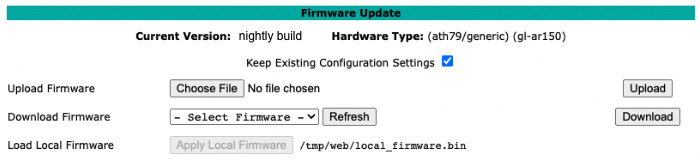
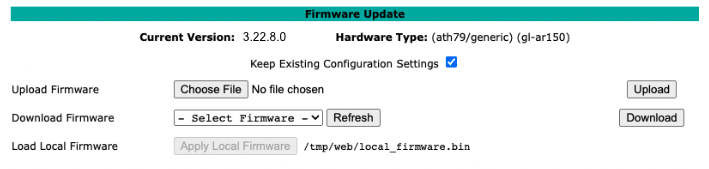
prepare 3.22.8.0 release (#192)

diff --git a/conf.py b/conf.py
@@ -25,9 +25,9 @@ copyright = f'{date.today().year}, Amateur Radio Emergency Data Network, Inc. Li
 author = u'Amateur Radio Emergency Data Network, Inc.'
 
 # The short X.Y version
-version = u'latest'
+version = u'3.22.8.0'
 # The full version, including alpha/beta/rc tags
-release = u'latest nightly build'
+release = u'3.22.8.0'
 
 # -- General configuration ---------------------------------------------------
 
